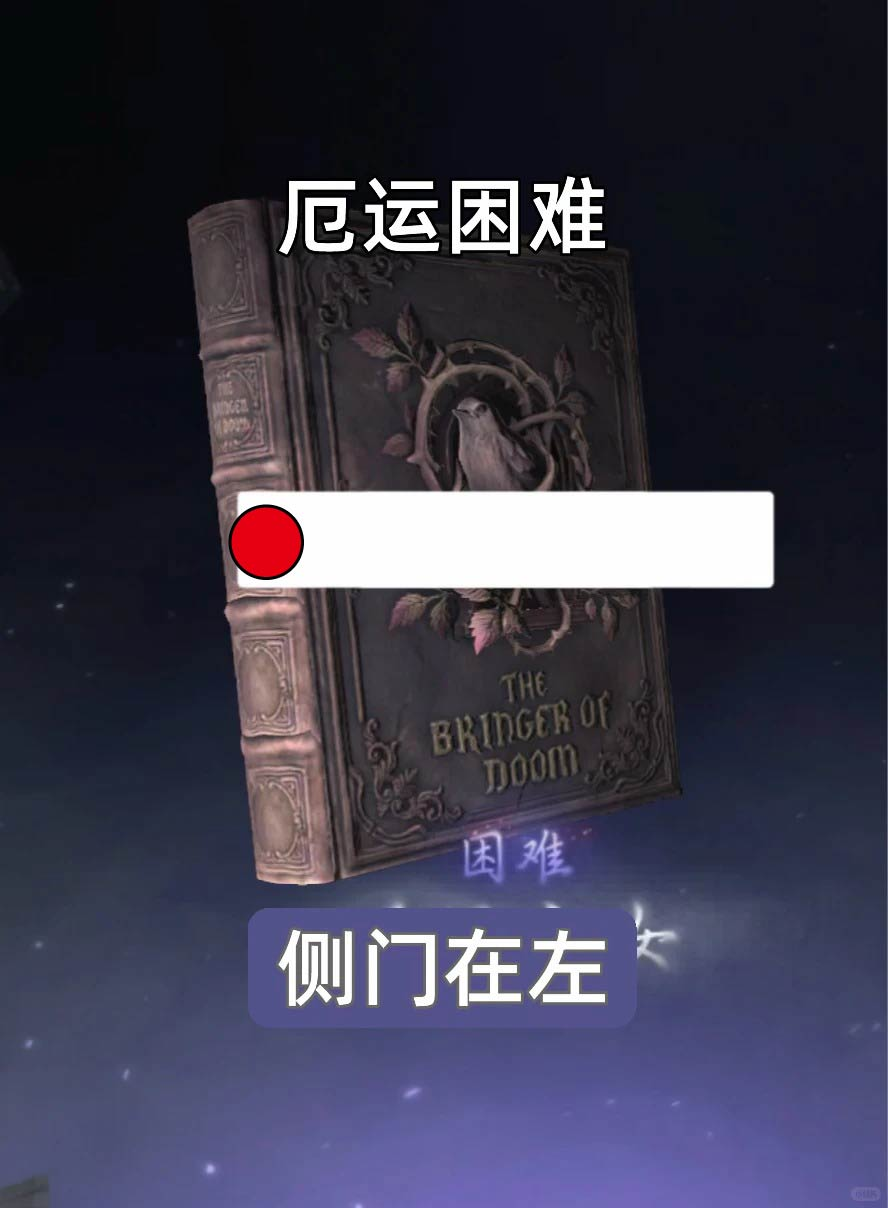
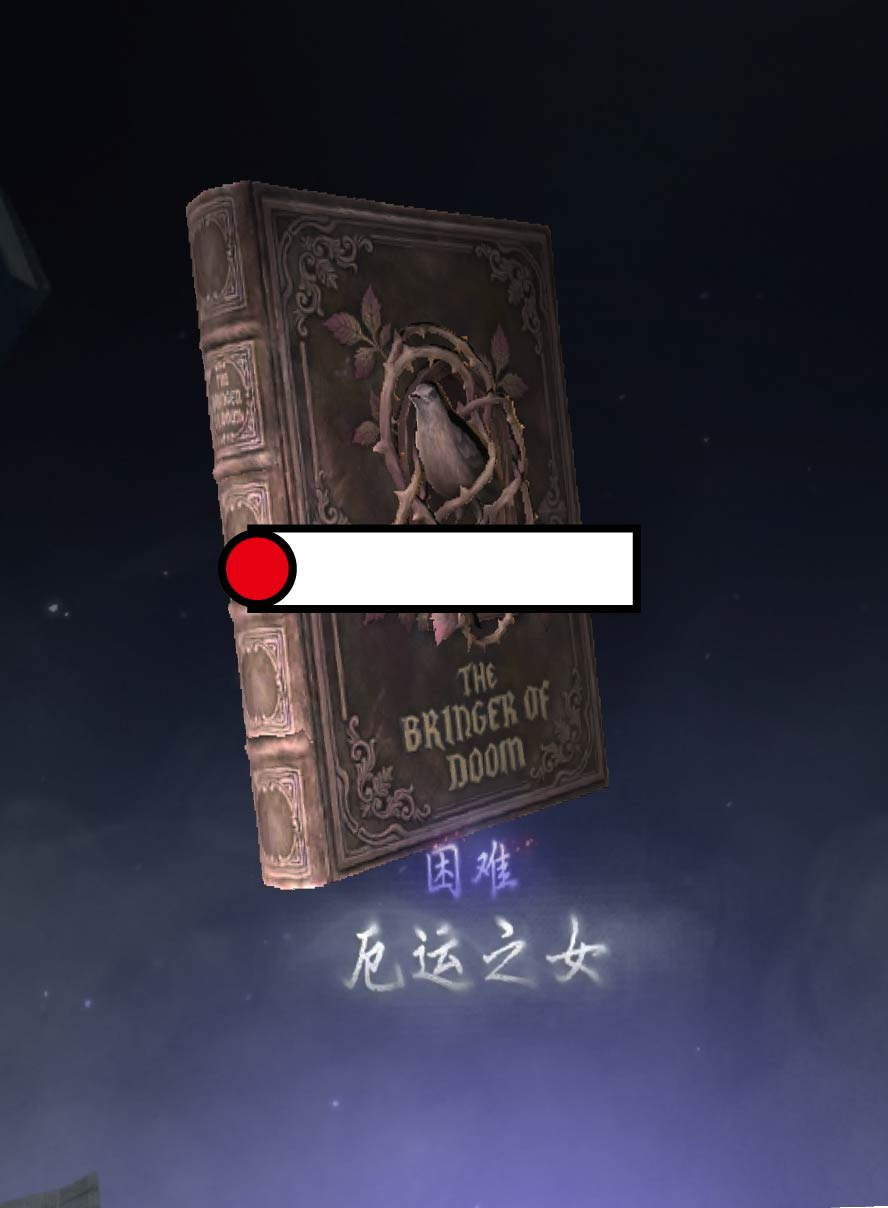
Add files via upload

diff --git a/index.html b/index.html
@@ -164,7 +164,7 @@
         }
 
         .cover-image-wrapper img.shift-left {
-            margin-left: -7px;
+            margin-right: 5px;
         }
 
         .cover-name {
@@ -344,7 +344,7 @@
 
 <div id="coverPage" class="page active">
     <div class="header">
-        <h1>地图小抄</h1>
+        <h1>厄运之女（困难）</h1>
         <div class="header-credits">
             <div>地图：@展十（超自然行动组）</div>
             <div>封面：小红书@風.</div>